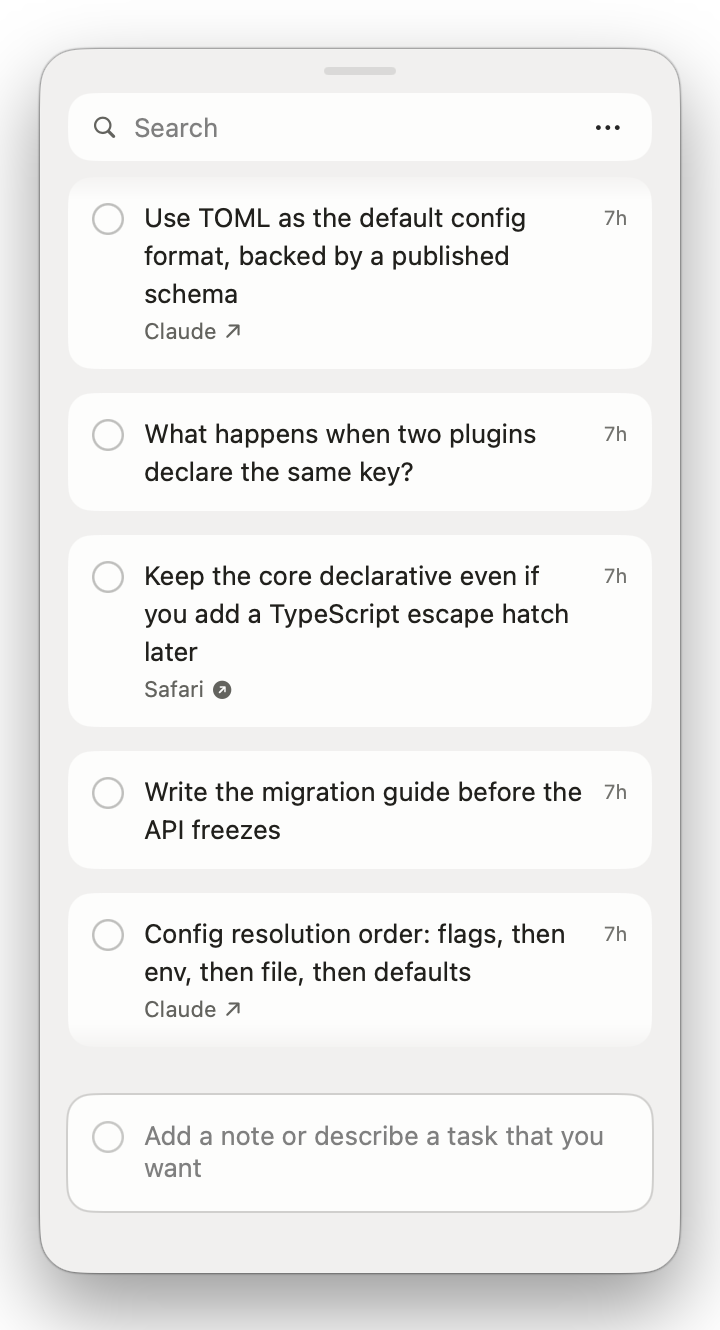
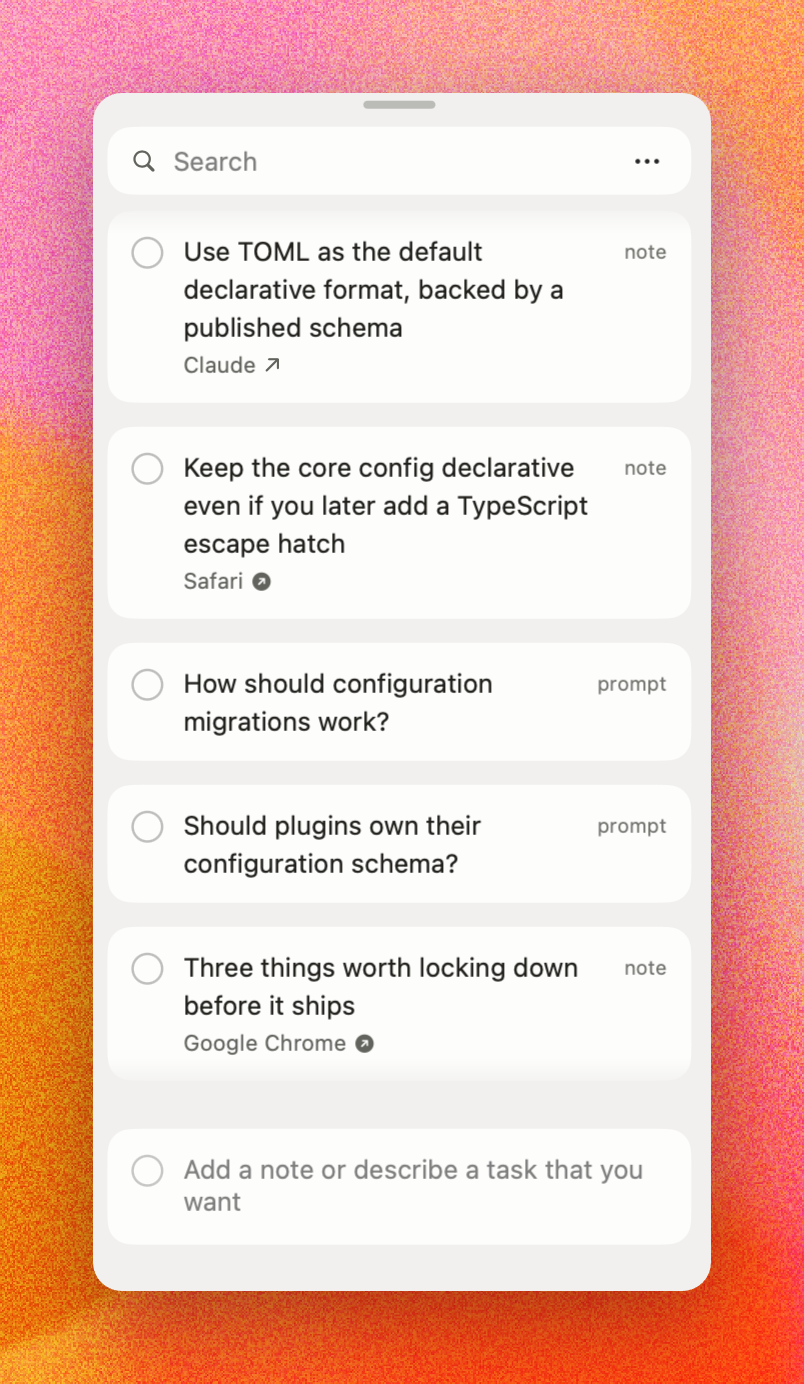
Use the real panel screenshot for the hero, add a social preview card

diff --git a/README.md b/README.md
@@ -10,7 +10,7 @@
 [![macOS 14+](https://img.shields.io/badge/macOS-14%2B-1a1a19)](#requirements)
 [![Build from source](https://img.shields.io/badge/install-build%20from%20source-1a1a19)](#install)
 
-<img src="docs/hero.png" width="340" alt="The Sill panel: a search field, five captured notes each showing the app they came from, and a composer at the bottom">
+<img src="docs/hero.png" width="360" alt="The Sill panel floating over a desktop: a search field, five captured notes each labelled note or prompt and tagged with the app it came from, and a composer at the bottom">
 
 </div>
 
